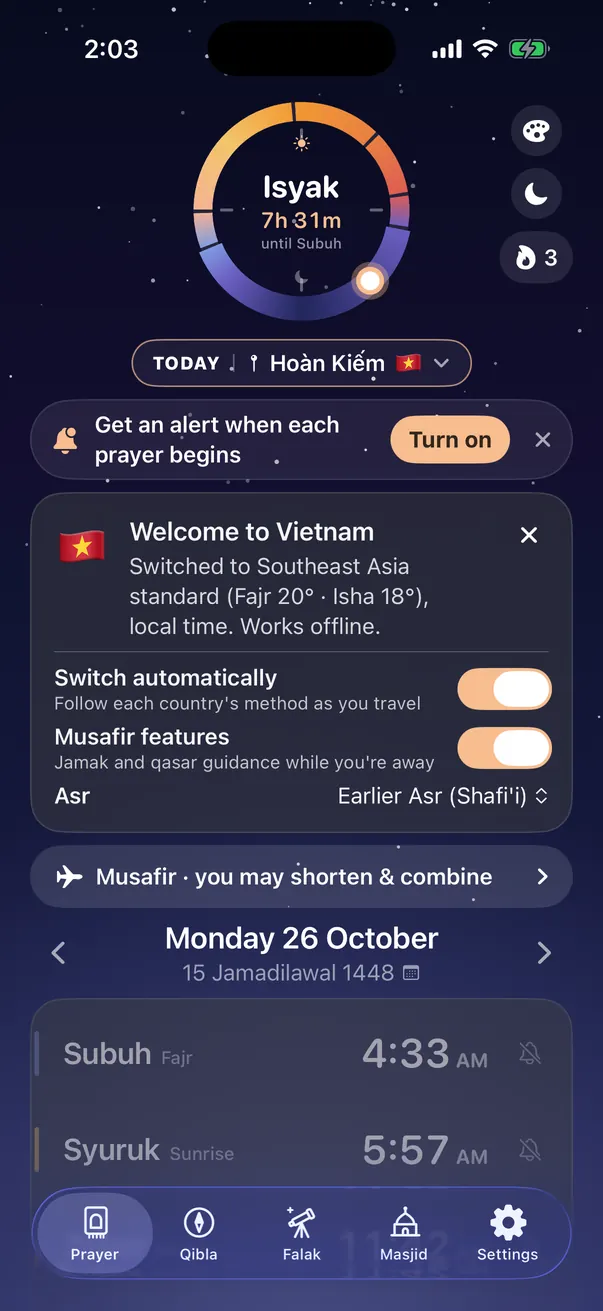
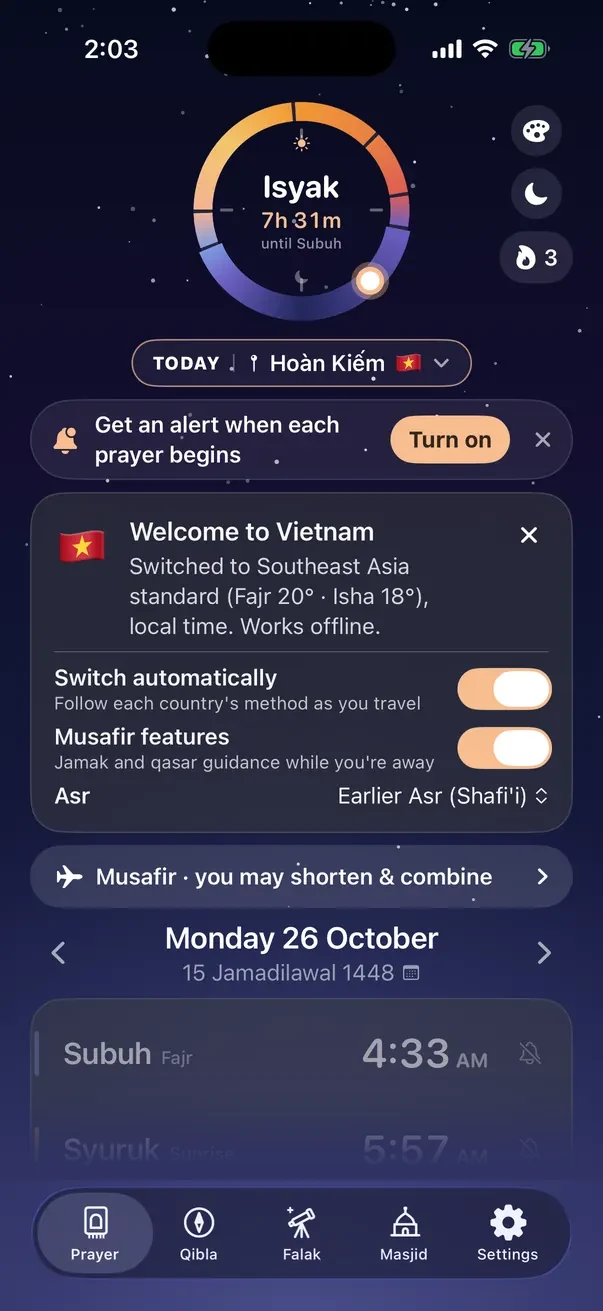
Home page: tidy the travel screenshot, tribute line under the features list
Claude-Session: https://claude.ai/code/session_012paKCDGnumkiAn5qHT8faS

Changed region(s): [[0.0299, 0.8543, 0.9552, 0.9764]]

diff --git a/site/index.html b/site/index.html
@@ -277,6 +277,7 @@
         @media (max-width: 600px) { .letter { padding: 30px 22px; } }
     #who .card h3 { margin-bottom: 8px; }
     /* Small examples of the app on each "who it's for" card */
+    .tribute { margin: 14px 0 0; font-size: 0.85rem; color: var(--muted); font-style: italic; }
     .ex { border-radius: 16px; padding: 12px 14px; margin: -4px 0 18px; font-size: 0.86rem; line-height: 1.35; color: var(--text);
       background: rgba(255,255,255,0.07); border: 1px solid rgba(255,255,255,0.10); box-shadow: 0 14px 30px -18px rgba(0,0,0,.8); transition: transform .4s ease; }
     #who .card:hover .ex { transform: translateY(-3px); }
@@ -585,6 +586,7 @@
             <li>Hijri date, Dhuha and the special night times</li>
             <li>Prayer times on your home screen and lock screen, on iPhone and Android</li>
           </ul>
+          <p class="tribute">The Colour Bands look is our tribute to prayertime.sg &amp; my, the Singapore app many of us grew up with.</p>
         </div>
         <div class="shot">
           <div class="phone"><img src="img/today.webp" alt="The Prayer screen, a dial counting down to Isyak, and today's times in Pasir Ris, Singapore" loading="lazy" width="603" height="1311" /></div>
